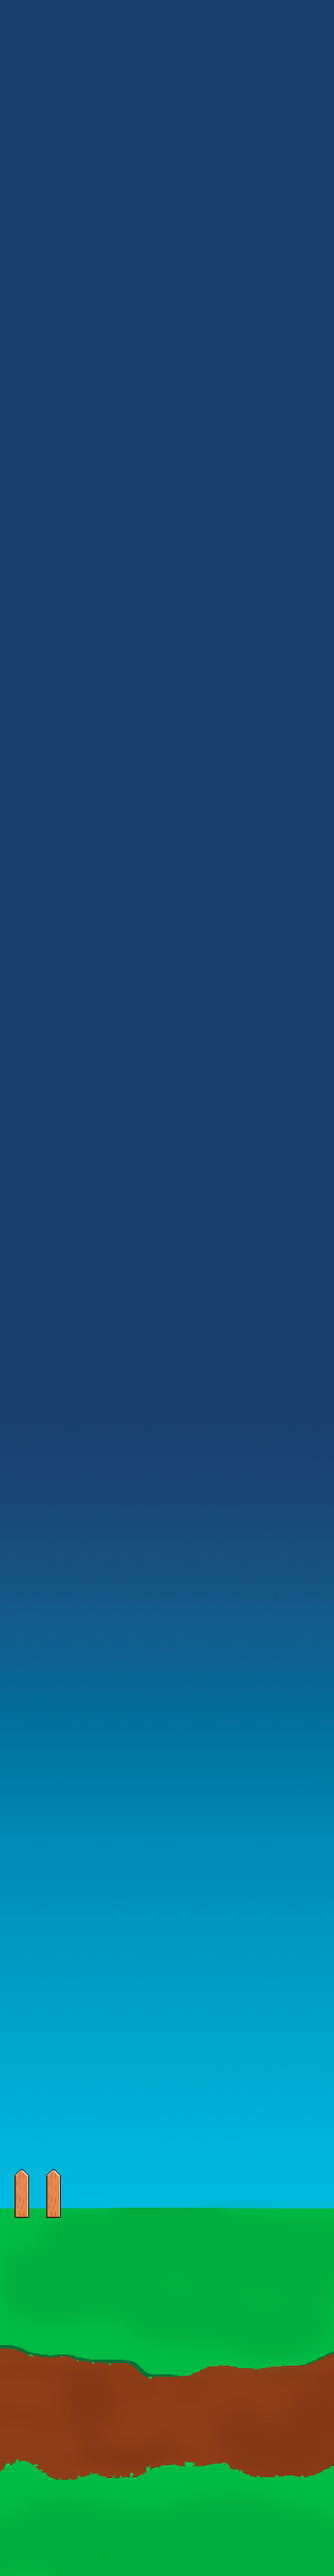
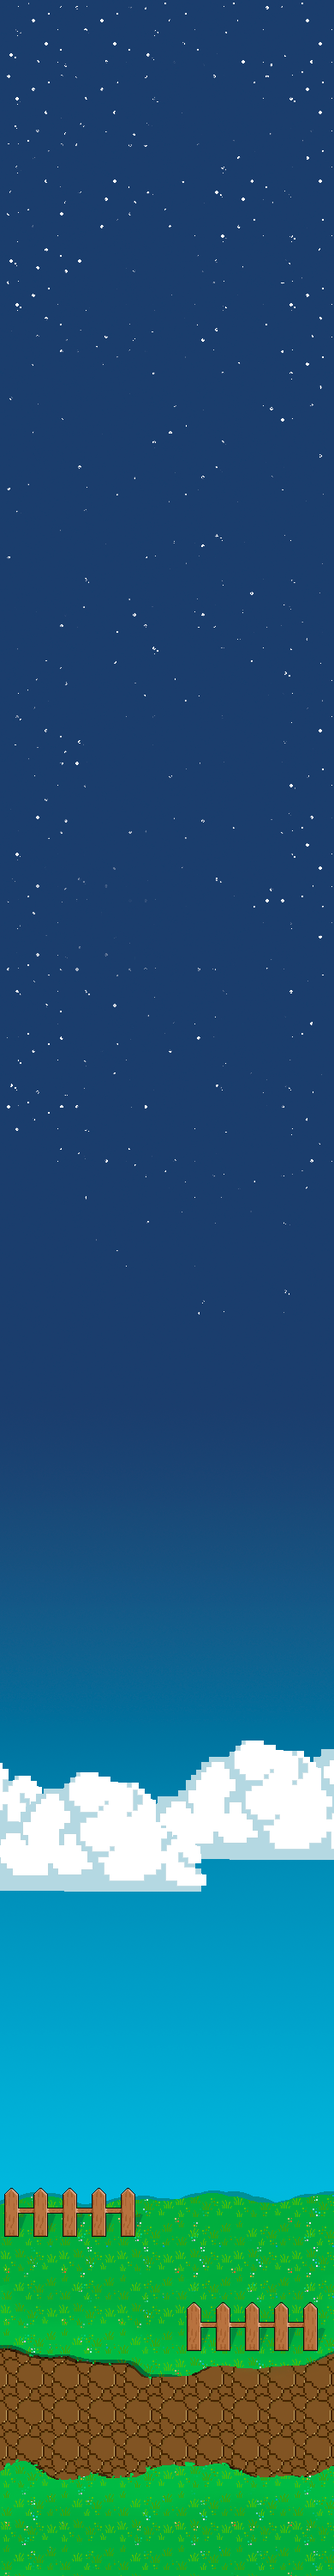
Add jumping animation and later background

Changed region(s): [[0.0, 0.837, 1.0, 1.0], [0.0, 0.651, 1.0, 0.744], [0.2769, 0.992, 0.3077, 1.0]]

diff --git a/index.html b/index.html
@@ -10,8 +10,9 @@
 
 <body>
   <div id="app">
-    <img src="./src/images/alienidle.png" class="alienidle" />
     <img src="./src/images/background.png" class="background" />
+    <img src="./src/images/alienidle.png" class="alienidle" />
+    <img src="./src/images/jump-animation.png" class="jump-animation">
 
   </div>
   <script type="module" src="./src//main.js"></script>

diff --git a/src/components/Background/Background.js b/src/components/Background/Background.js
@@ -11,7 +11,7 @@ class Background extends Component {
     this.x = 0;
     this.y = -this.height + this.gameHeight;
     this.image = document.querySelector(".background");
-    this.speed = -4;
+    this.speed = -2;
   }
 
   render(context) {

diff --git a/src/style.css b/src/style.css
@@ -30,3 +30,7 @@ body {
 .background {
   display: none;
 }
+
+.jump-animation {
+  display: none;
+}
